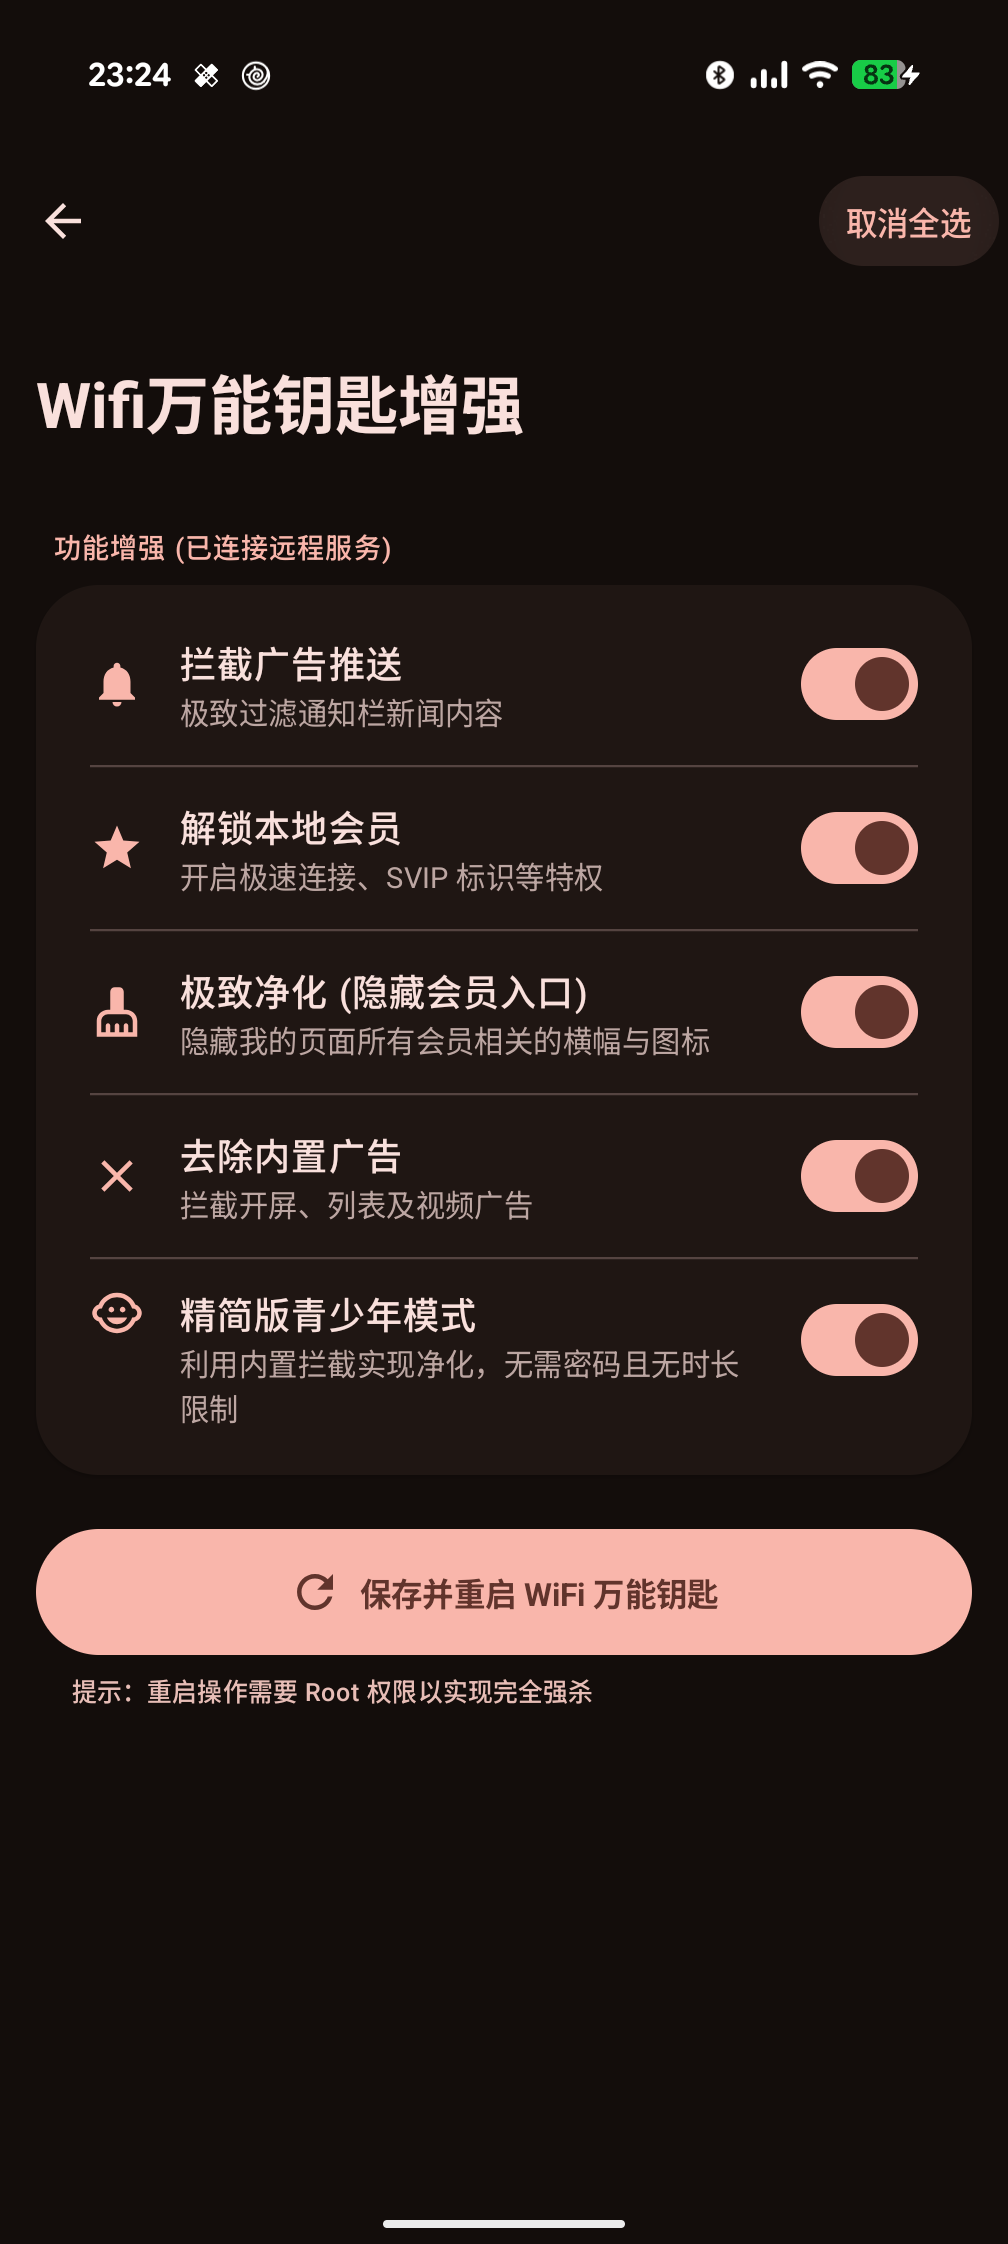
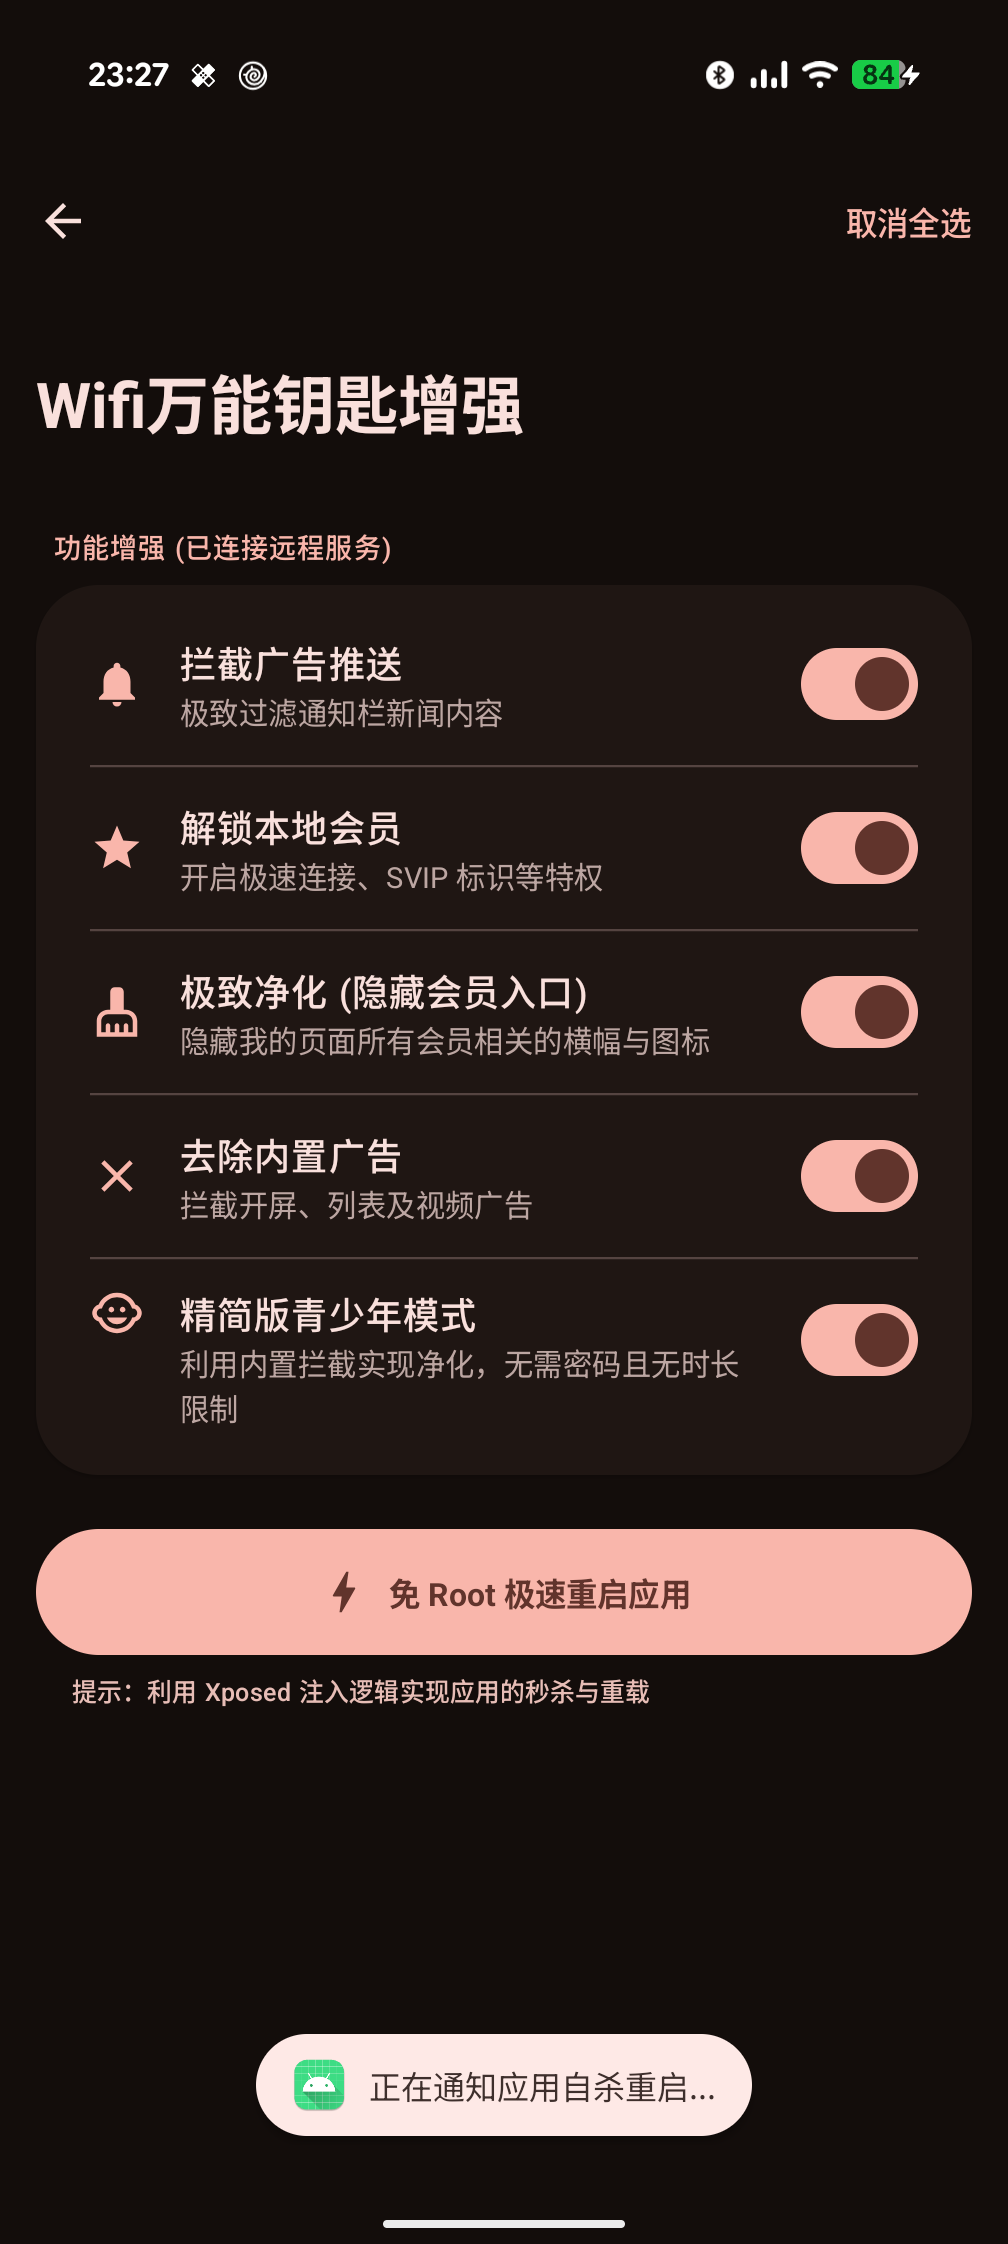
Implement No-Root Restart: added suicide broadcast listener in target app and button in settings to trigger it

diff --git a/app/src/main/java/com/ty/wifikeyxposed/SettingsActivity.kt b/app/src/main/java/com/ty/wifikeyxposed/SettingsActivity.kt
@@ -214,41 +214,36 @@ fun SettingsScreen(prefs: SharedPreferences, onBack: () -> Unit) {
 
             Button(
                 onClick = {
-                    try {
-                        val packageName = "com.snda.wifilocating"
-                        // 尝试使用 root 强杀并重启 (大多数 Xposed 用户都有 root)
-                        val process = Runtime.getRuntime().exec("su")
-                        val os = process.outputStream
-                        os.write("am force-stop $packageName\n".toByteArray())
-                        os.write("monkey -p $packageName -c android.intent.category.LAUNCHER 1\n".toByteArray())
-                        os.flush()
-                        os.close()
-                        Toast.makeText(context, "正在尝试重启应用...", Toast.LENGTH_SHORT).show()
-                    } catch (e: Exception) {
-                        // 如果没有 root，回退到普通启动 (至少能打开应用)
-                        try {
-                            val intent = context.packageManager.getLaunchIntentForPackage("com.snda.wifilocating")
-                            if (intent != null) {
-                                intent.addFlags(android.content.Intent.FLAG_ACTIVITY_NEW_TASK)
-                                context.startActivity(intent)
-                                Toast.makeText(context, "Root 权限缺失，已尝试普通启动", Toast.LENGTH_LONG).show()
-                            }
-                        } catch (e2: Exception) {
-                            Toast.makeText(context, "操作失败: " + e2.message, Toast.LENGTH_SHORT).show()
+                    val packageName = "com.snda.wifilocating"
+                    val restartAction = "com.ty.wifikeyxposed.ACTION_RESTART"
+                    
+                    // 1. 发送免 Root 自杀广播
+                    val intent = android.content.Intent(restartAction)
+                    intent.setPackage(packageName)
+                    context.sendBroadcast(intent)
+                    
+                    Toast.makeText(context, "正在通知应用自杀重启...", Toast.LENGTH_SHORT).show()
+                    
+                    // 2. 延迟拉起应用
+                    android.os.Handler(android.os.Looper.getMainLooper()).postDelayed({
+                        val launchIntent = context.packageManager.getLaunchIntentForPackage(packageName)
+                        if (launchIntent != null) {
+                            launchIntent.addFlags(android.content.Intent.FLAG_ACTIVITY_NEW_TASK)
+                            context.startActivity(launchIntent)
                         }
-                    }
+                    }, 800)
                 },
                 modifier = Modifier.fillMaxWidth(),
                 shape = MaterialTheme.shapes.extraLarge,
                 contentPadding = PaddingValues(16.dp)
             ) {
-                Icon(Icons.Default.Refresh, contentDescription = null)
+                Icon(Icons.Default.Bolt, contentDescription = null)
                 Spacer(modifier = Modifier.width(8.dp))
-                Text("保存并重启 WiFi 万能钥匙", fontWeight = FontWeight.Bold)
+                Text("免 Root 极速重启应用", fontWeight = FontWeight.Bold)
             }
             
             Text(
-                "提示：重启操作需要 Root 权限以实现完全强杀",
+                "提示：利用 Xposed 注入逻辑实现应用的秒杀与重载",
                 style = MaterialTheme.typography.labelSmall,
                 color = MaterialTheme.colorScheme.secondary,
                 modifier = Modifier.padding(top = 8.dp, start = 16.dp)

diff --git a/app/src/main/java/com/ty/wifikeyxposed/MainHook.java b/app/src/main/java/com/ty/wifikeyxposed/MainHook.java
@@ -5,22 +5,25 @@ package com.ty.wifikeyxposed;
  * 1. 目标应用：WiFi万能钥匙 5.2.13 (com.snda.wifilocating)
  * 2. 核心功能：本地 SVIP 永久解锁、全模块去广告 (开屏/列表/视频)、MD3E 设置界面。
  * 3. 创新功能：精简版青少年模式。利用内置拦截实现净化，剥离密码与时长限制。
- * 4. 验证流程：每次更改后构建 APK，通过 ADB 安装，重启目标应用，查看 LSPosed 日志。
- * 5. 强制要求：所有更改必须进行 Git Commit。
- * 6. 日志查看方法：adb logcat -s LSPosed LSPosed-Bridge WiFiKeyXposed
+ * 4. 交互增强：实现免 Root 自杀式重启机制。
+ * 5. 验证流程：每次更改后构建 APK，通过 ADB 安装，重启目标应用，查看 LSPosed 日志。
+ * 6. 强制要求：所有更改必须进行 Git Commit。
  * 7. 行为规范：思考必须是中文，交流必须是中文。
- * 8. 解锁策略：必须是“解锁会员”而非“删除会员体系”。保留 SVIP 标识，仅隐藏推广横幅。
- * 9. API 规范：100% 符合 libxposed API 101 规范。
+ * 8. API 规范：100% 符合 libxposed API 101 规范。
  */
 
+import android.content.BroadcastReceiver;
 import android.content.ComponentName;
 import android.content.Context;
 import android.content.Intent;
+import android.content.IntentFilter;
 import android.content.SharedPreferences;
 import android.graphics.Color;
 import android.graphics.Typeface;
+import android.os.Build;
 import android.os.Handler;
 import android.os.Looper;
+import android.os.Process;
 import android.view.View;
 import android.widget.LinearLayout;
 import android.widget.TextView;
@@ -40,6 +43,7 @@ public class MainHook extends XposedModule {
     private static final String TARGET_PACKAGE = "com.snda.wifilocating";
     private static final String ME_FRAGMENT_CLASS = "com.wifitutu.ui.me.MeFragment";
     private static final String TEENAGER_MANAGER_CLASS = "com.wifitutu.link.foundation.sdk.c1";
+    private static final String ACTION_RESTART = "com.ty.wifikeyxposed.ACTION_RESTART";
 
     private Handler mainHandler;
 
@@ -75,6 +79,7 @@ public class MainHook extends XposedModule {
         ClassLoader classLoader = param.getClassLoader();
         
         try {
+            hookRestartLogic(classLoader);
             hookMeFragment(classLoader);
             hookPushNotifications(classLoader);
             hookVipStatus(classLoader);
@@ -88,30 +93,56 @@ public class MainHook extends XposedModule {
     }
 
     /**
-     * 实现“精简版青少年模式”
-     * 1. 强制 isRunning 返回 true (当开关开启时)
-     * 2. 强制 isLimited 返回 false (移除 40 分钟限制)
-     * 3. 屏蔽 ow() 方法 (移除后台定时器启动)
+     * 实现免 Root 自杀式重启
+     * 在 Application.onCreate 中注册广播监听，收到指令后立即终止进程
      */
+    private void hookRestartLogic(ClassLoader classLoader) {
+        try {
+            Class<?> appClass = classLoader.loadClass("android.app.Application");
+            Method onCreateMethod = appClass.getDeclaredMethod("onCreate");
+            
+            hook(onCreateMethod).intercept(chain -> {
+                Object result = chain.proceed();
+                final Context context = (Context) chain.getThisObject();
+                
+                BroadcastReceiver restartReceiver = new BroadcastReceiver() {
+                    @Override
+                    public void onReceive(Context context, Intent intent) {
+                        log(4, TAG, "Received restart broadcast, killing process: " + Process.myPid());
+                        Process.killProcess(Process.myPid());
+                        System.exit(0);
+                    }
+                };
+                
+                IntentFilter filter = new IntentFilter(ACTION_RESTART);
+                if (Build.VERSION.SDK_INT >= 34) { // Android 14+
+                    context.registerReceiver(restartReceiver, filter, Context.RECEIVER_EXPORTED);
+                } else {
+                    context.registerReceiver(restartReceiver, filter);
+                }
+                return result;
+            });
+        } catch (Exception e) {
+            log(6, TAG, "Failed to hook restart logic: " + e.getMessage());
+        }
+    }
+
     private void hookTeenagerMode(ClassLoader classLoader) {
         try {
             Class<?> teenagerClass = classLoader.loadClass(TEENAGER_MANAGER_CLASS);
             
-            // 判定开启状态
             Method isRunningMethod = teenagerClass.getDeclaredMethod("isRunning");
             hook(isRunningMethod).intercept(chain -> {
                 if (isFeatureEnabled("lite_teenager", false)) return true;
                 return chain.proceed();
             });
 
-            // 判定受限状态 (永久解除时长限制弹窗)
             Method isLimitedMethod = teenagerClass.getDeclaredMethod("isLimited");
             hook(isLimitedMethod).intercept(chain -> {
                 if (isFeatureEnabled("lite_teenager", false)) return false;
                 return chain.proceed();
             });
 
-            // 屏蔽定时器启动逻辑
             try {
                 Method owMethod = teenagerClass.getDeclaredMethod("ow");
                 hook(owMethod).intercept(chain -> {
